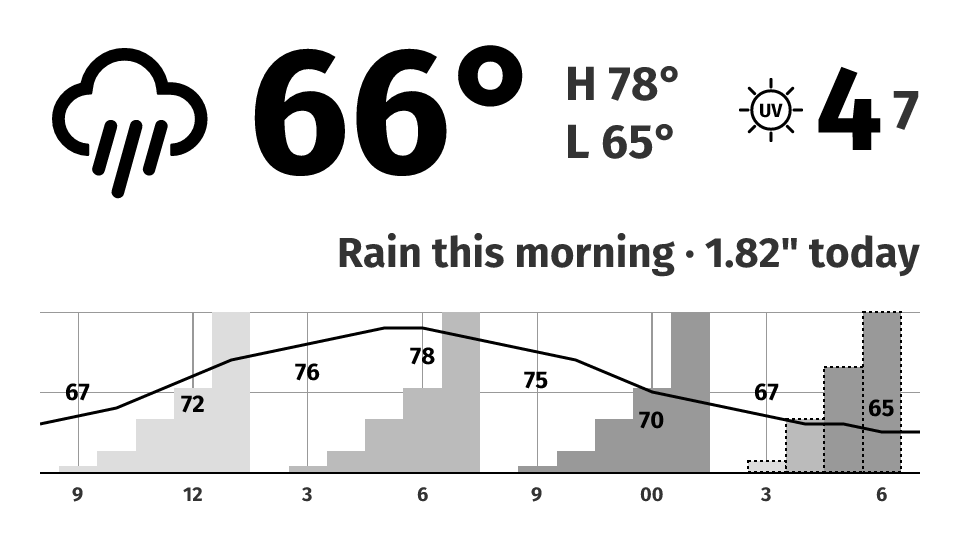
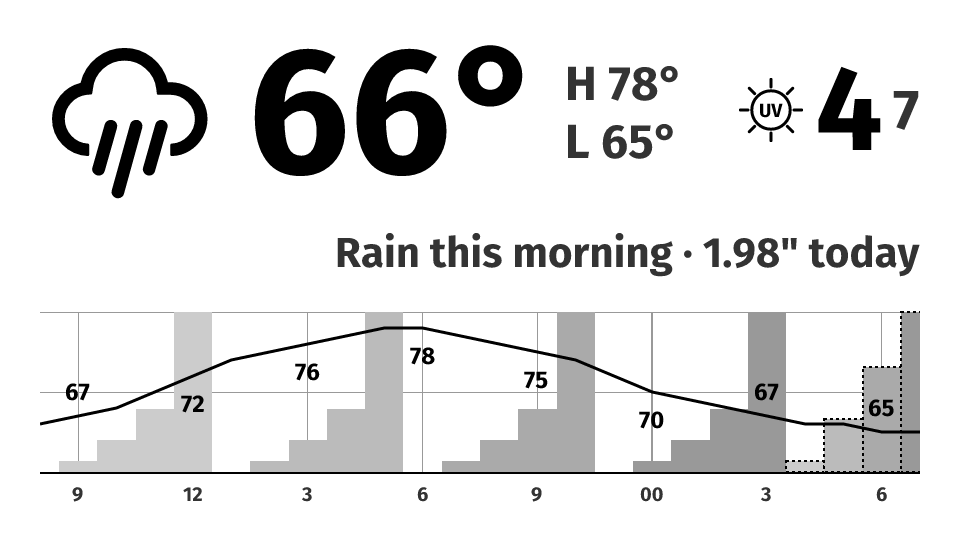
feat(render): 4-bucket probability shades — #ccc floor, #aaa/#999 top split
The #ddd faint bucket proved invisible on the physical panel (a 4px
trace bar vanished entirely), so the floor moves to #ccc — the proven
old rain-bar grey. The top splits so the darkest shade is reserved for
near-certainty: <40% #ccc, 40-74% #bbb, 75-89% #aaa, >=90% #999.
Adjacent buckets are now 1 4bpp step apart — enough for relative
reading between neighboring bars; re-widen if panel graininess smears
them. Showcase fixture reworked to sweep all four buckets.

diff --git a/worker/renderer/src/layout.jsx b/worker/renderer/src/layout.jsx
@@ -54,11 +54,14 @@ const precipBarH = (mm, usableH) => {
   return Math.max(MIN_BAR_PX, Math.min(1, mm / RAIN_FULL_MM) * usableH);
 };
 
-// Bar SHADE = probability, in 3 discrete buckets — a continuous ramp is false
-// precision on the panel's 16 grey levels. Buckets are ≥2 4bpp steps (0x22)
-// apart so they stay distinguishable despite grainy fills, and the darkest
-// stays light enough that the temp line/labels never need halos.
-const precipShade = (pop) => (pop > 75 ? '#999' : pop >= 40 ? '#bbb' : '#ddd');
+// Bar SHADE = probability, in 4 discrete buckets — a continuous ramp is false
+// precision on the panel's 16 grey levels. Adjacent buckets are 1 4bpp step
+// apart: enough to read relative differences between neighboring bars, with
+// the floor at #ccc (the old rain-bar grey — #ddd proved invisible on the
+// physical panel) and the ceiling at #999 so the temp line/labels never need
+// halos. All four are native 4bpp levels, so no dithering between them.
+const precipShade = (pop) =>
+  pop >= 90 ? '#999' : pop >= 75 ? '#aaa' : pop >= 40 ? '#bbb' : '#ccc';
 
 // Mapping from the normalized `weather` strings to Erik Flowers Weather
 // Icons codepoints (Private Use Area of the WeatherIcons TTF). Each entry

diff --git a/AMOUNT_BARS_HANDOFF.md b/AMOUNT_BARS_HANDOFF.md
@@ -88,11 +88,16 @@ spot.
   gives it an honest 7%). Trace visibility is handled by a `MIN_BAR_PX = 4`
   floor for any nonzero amount, not by a curve. If linear feels too timid after
   living with it, try exponent 0.7 before going back to sqrt.
-- **Shade = 3 discrete probability buckets**, not a continuous ramp (a ramp is
-  false precision on a 16-level panel with grainy fills): low chance `#ddd`,
-  likely `#bbb`, definitely `#999`. All ≥2 4bpp steps (0x22) apart so adjacent
-  buckets stay distinguishable. Boundaries (user-confirmed 2026-07-15): <40%
-  low, 40–75% likely, >75% definitely.
+- **Shade = 4 discrete probability buckets**, not a continuous ramp (a ramp is
+  false precision on a 16-level panel with grainy fills). REVISED 2026-08-02
+  (was 3 buckets `#ddd`/`#bbb`/`#999` with 2-step gaps): `#ddd` proved
+  invisible on the physical panel, so the floor moved to `#ccc` (the proven
+  old rain-bar grey) and the top split so `#999` means near-certain. Current
+  mapping: <40% `#ccc` · 40–74% `#bbb` · 75–89% `#aaa` · ≥90% `#999`.
+  Adjacent buckets are 1 4bpp step apart — enough for relative reading between
+  neighboring bars (user call: with 4 ordered options, absolute
+  identification of an isolated bar matters less); ⚠ if panel graininess
+  smears 1-step neighbors, re-widen the lookup.
 - **Snow = the same 3 shade buckets + a black 2px DOTTED outline**
   (`strokeDasharray="3 3"`, `crispEdges`), retiring the fixed `#666` snow fill.
   One probability legend for both precip types; outline-vs-solid carries the
@@ -299,8 +304,9 @@ Resolved with the user 2026-07-15:
   threshold) — single-constant change.
 - Curve: **linear**, with a `MIN_BAR_PX = 4` floor for trace visibility (the
   sqrt curve re-inflated drizzle; see §3). If too timid, try exponent 0.7.
-- Probability: 3 discrete shade buckets (`#ddd`/`#bbb`/`#999`), not a
-  continuous ramp.
+- Probability: discrete shade buckets, not a continuous ramp. Originally 3
+  (`#ddd`/`#bbb`/`#999`); revised 2026-08-02 to 4 (`#ccc`/`#bbb`/`#aaa`/`#999`,
+  boundaries 40/75/90) after `#ddd` proved invisible on the device — see §3.
 - Independent height+shade confirmed (vs a blended pop×amount "expected
   rainfall" bar) — keeps both signals.
 - Snow: same shade buckets + black outline (see §3); `#666` retired.
